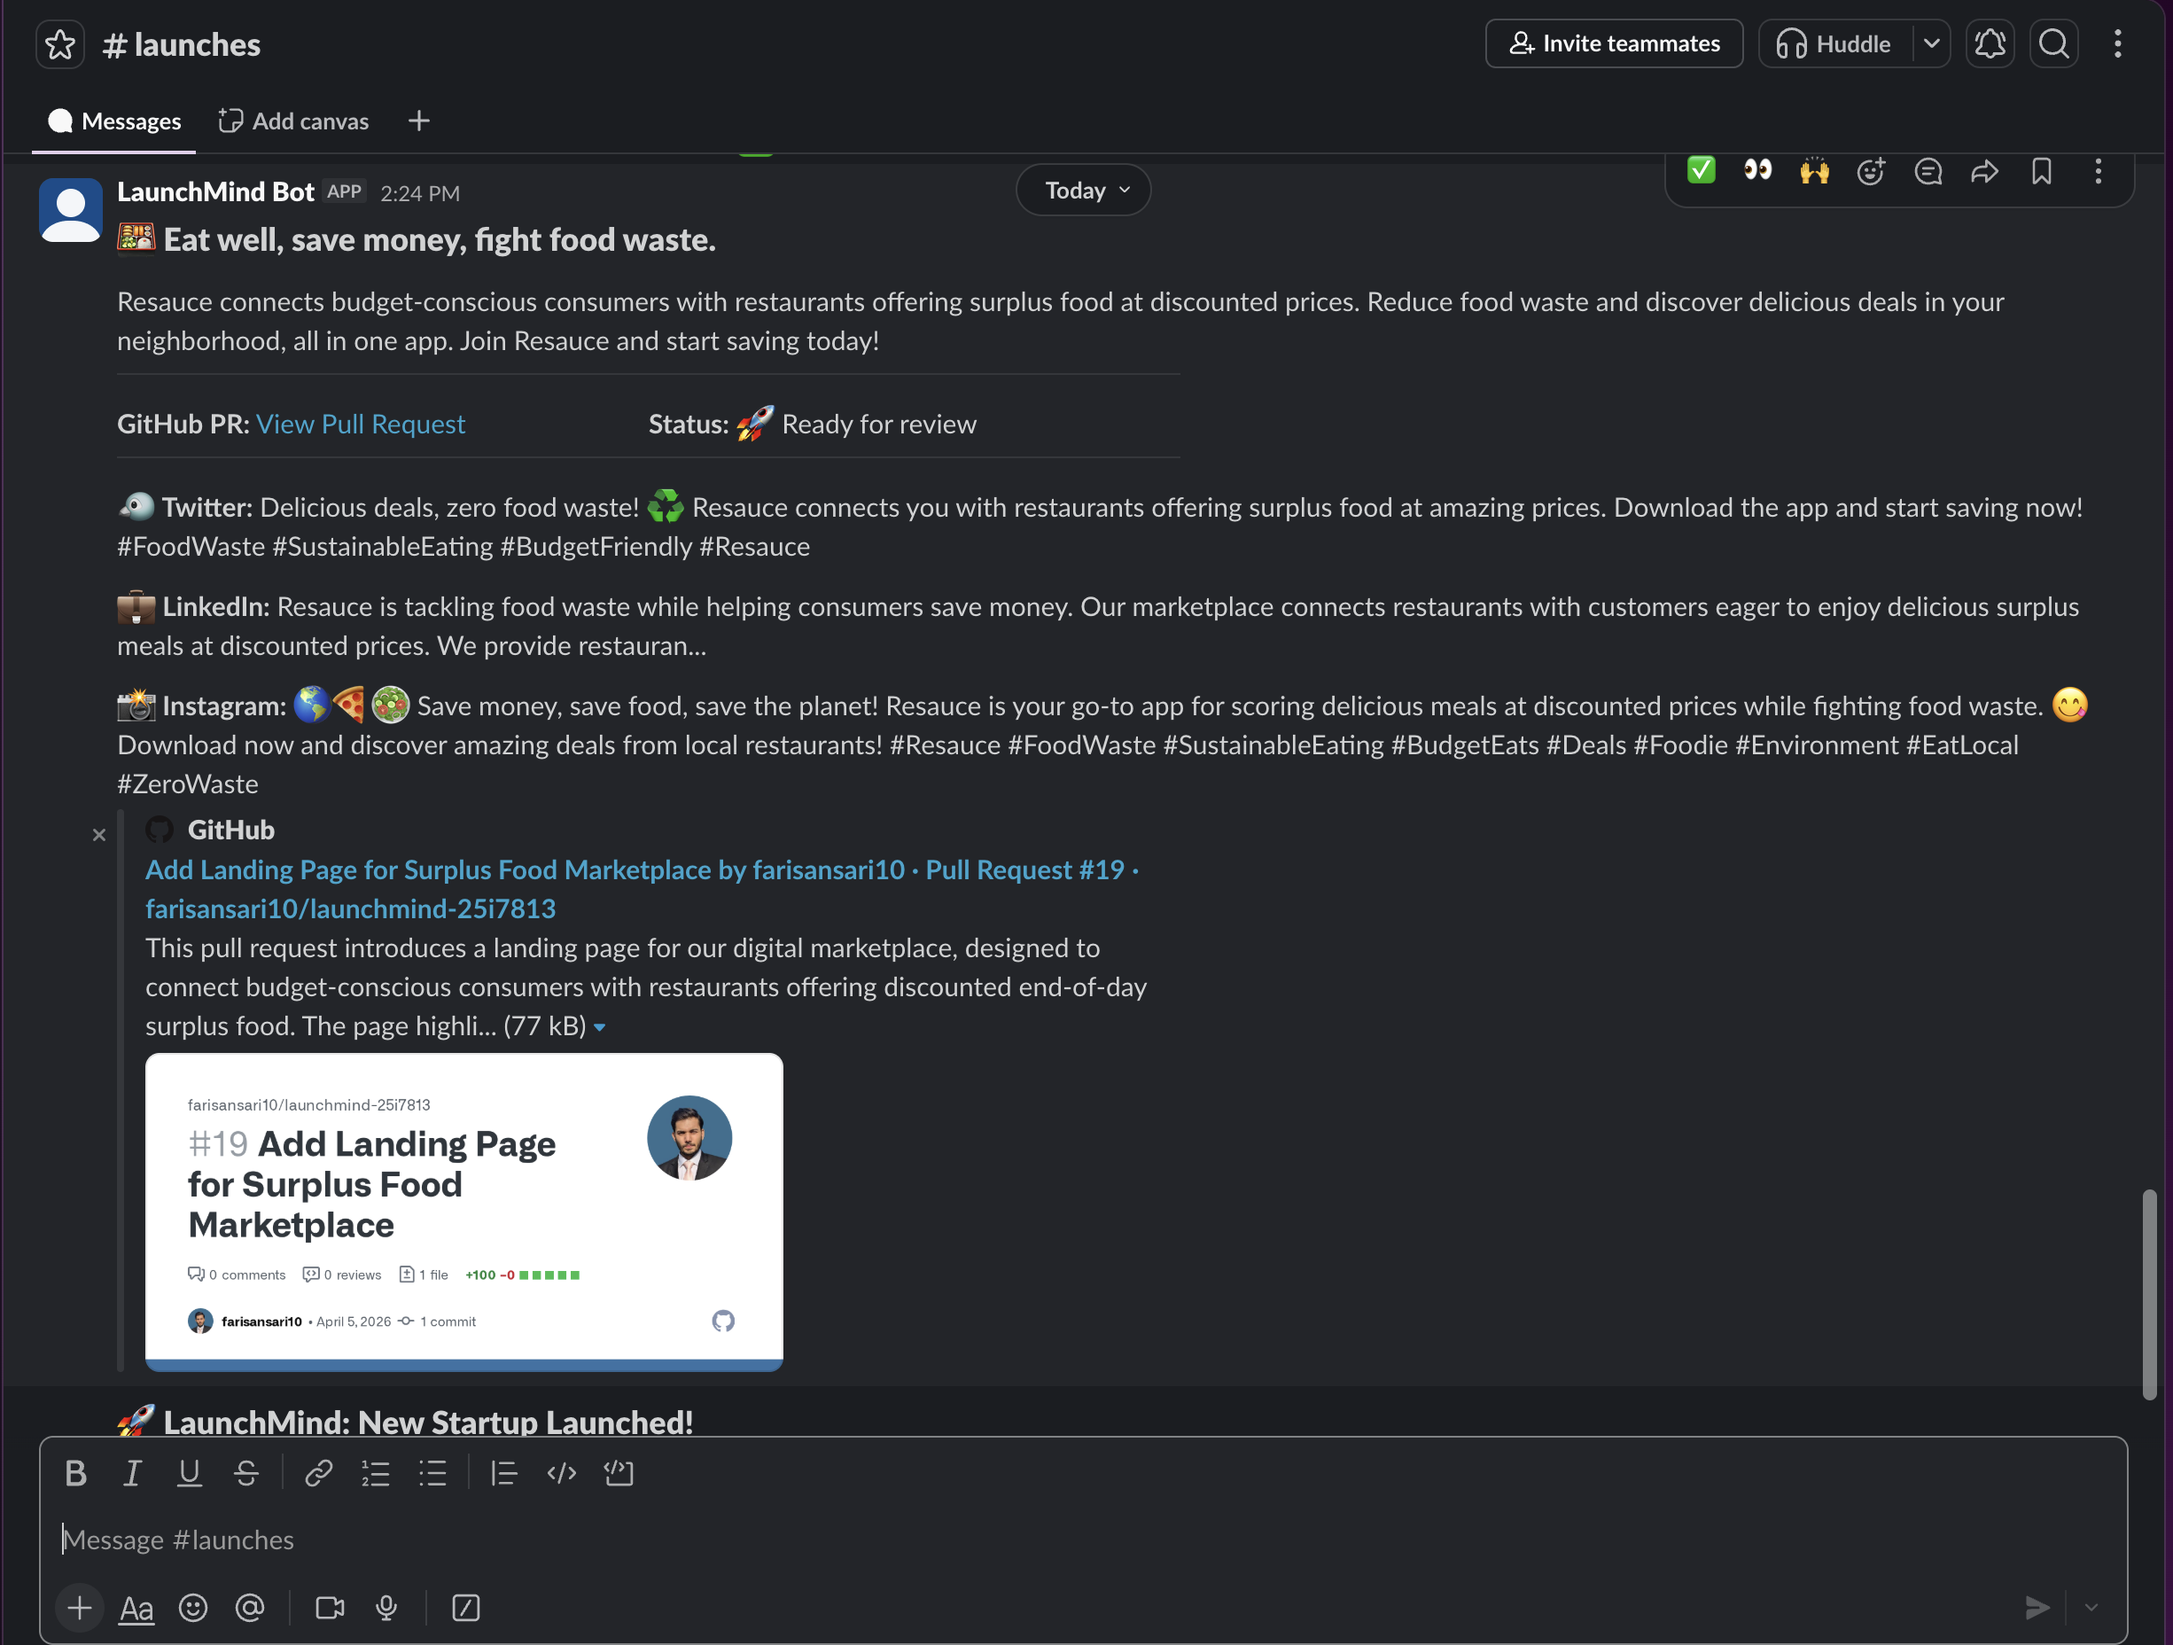
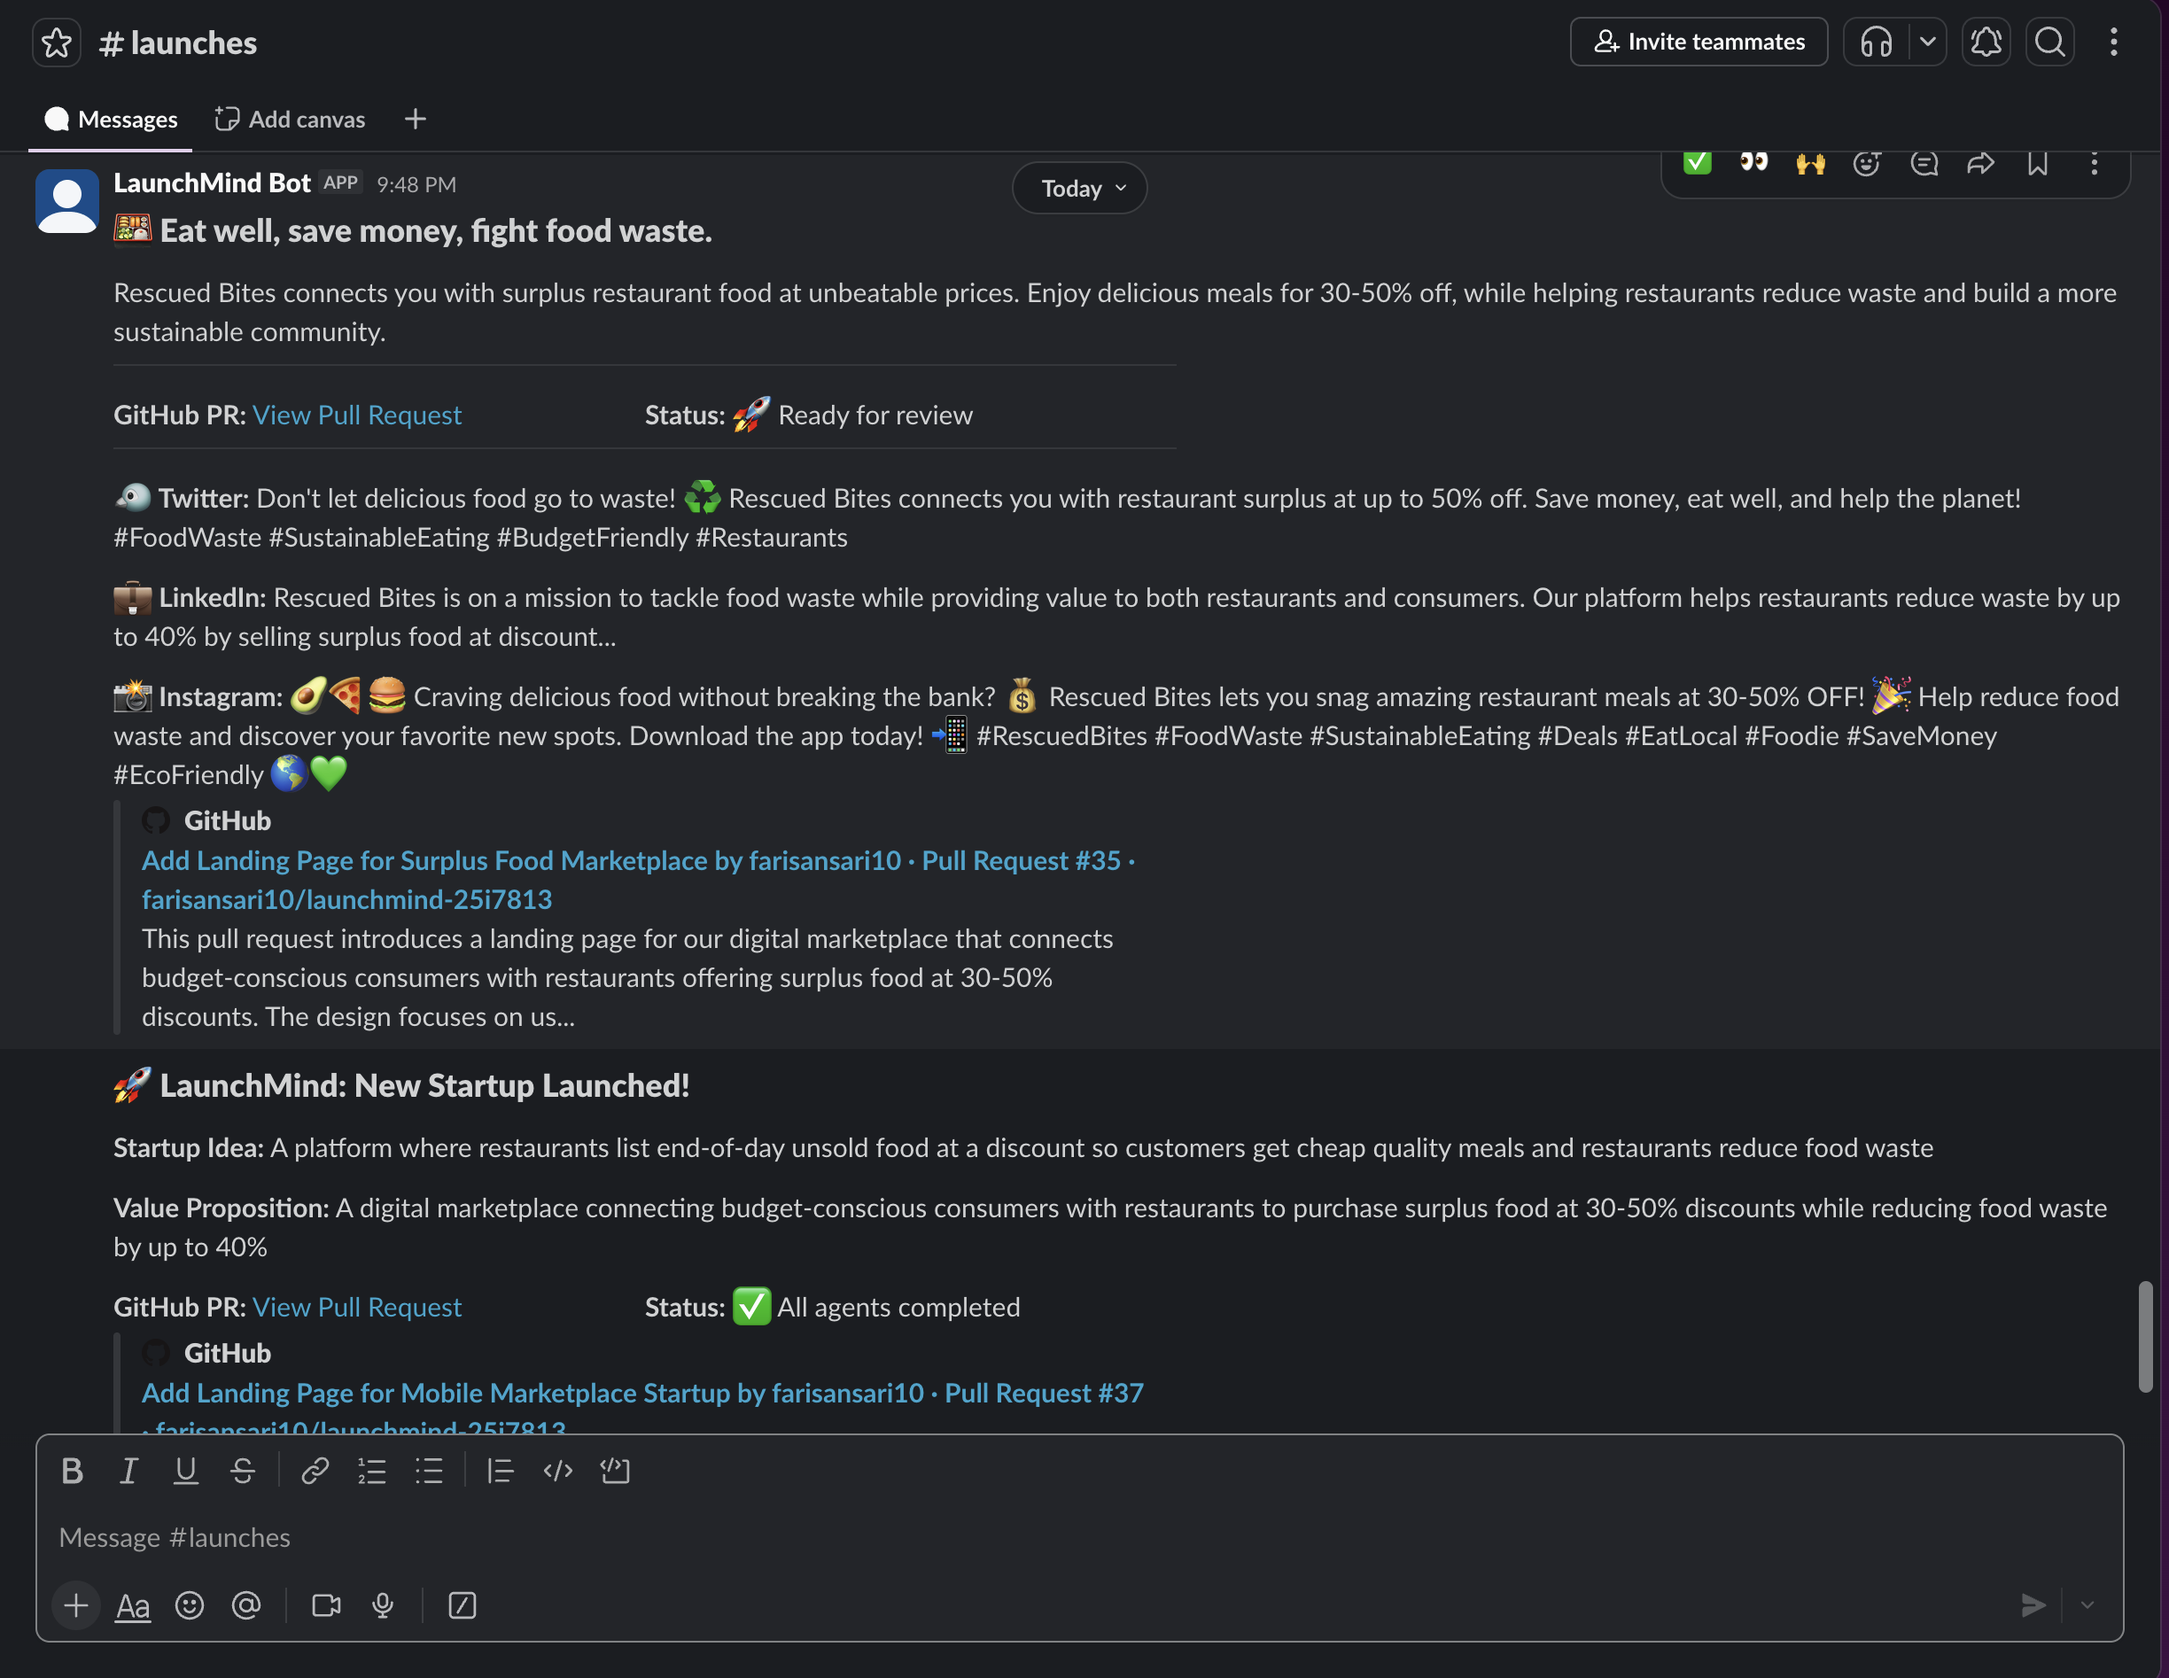
updated PR & slack screenshot

diff --git a/README.md b/README.md
@@ -107,8 +107,8 @@ python3 main.py
 
 ## 🔗 Links
 
-- **GitHub PR (Engineer Agent):** https://github.com/farisansari10/launchmind-25i7813/pull/23
-- **GitHub Issue (Engineer Agent):** https://github.com/farisansari10/launchmind-25i7813/issues/22
+- **GitHub PR (Engineer Agent):** https://github.com/farisansari10/launchmind-25i7813/pull/37
+- **GitHub Issue (Engineer Agent):** https://github.com/farisansari10/launchmind-25i7813/issues/36
 - **Slack Workspace:** https://join.slack.com/t/launchmind-workspace/shared_invite/zt-3u53a6ym9-HPgc7OQwFWxEUuZlMwVZew
 
 ### Slack Workspace
